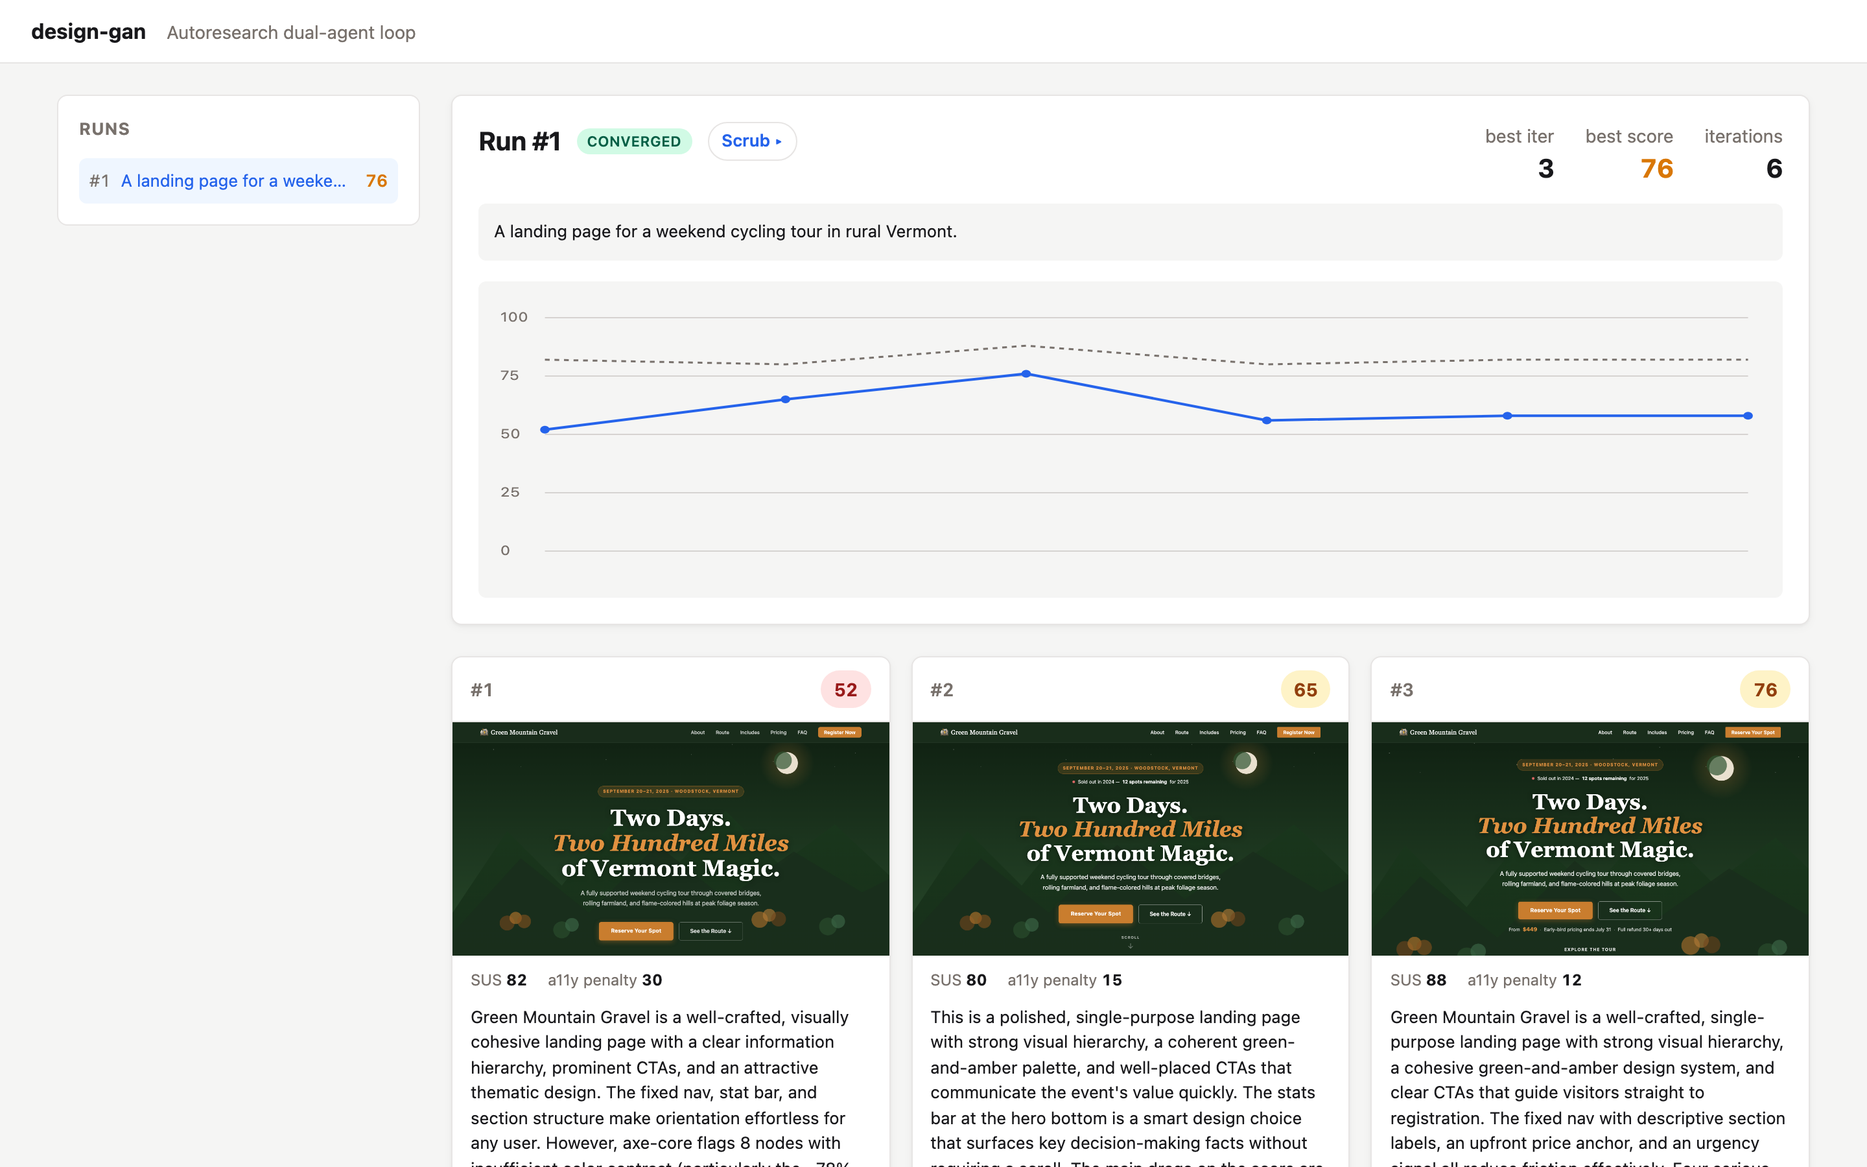
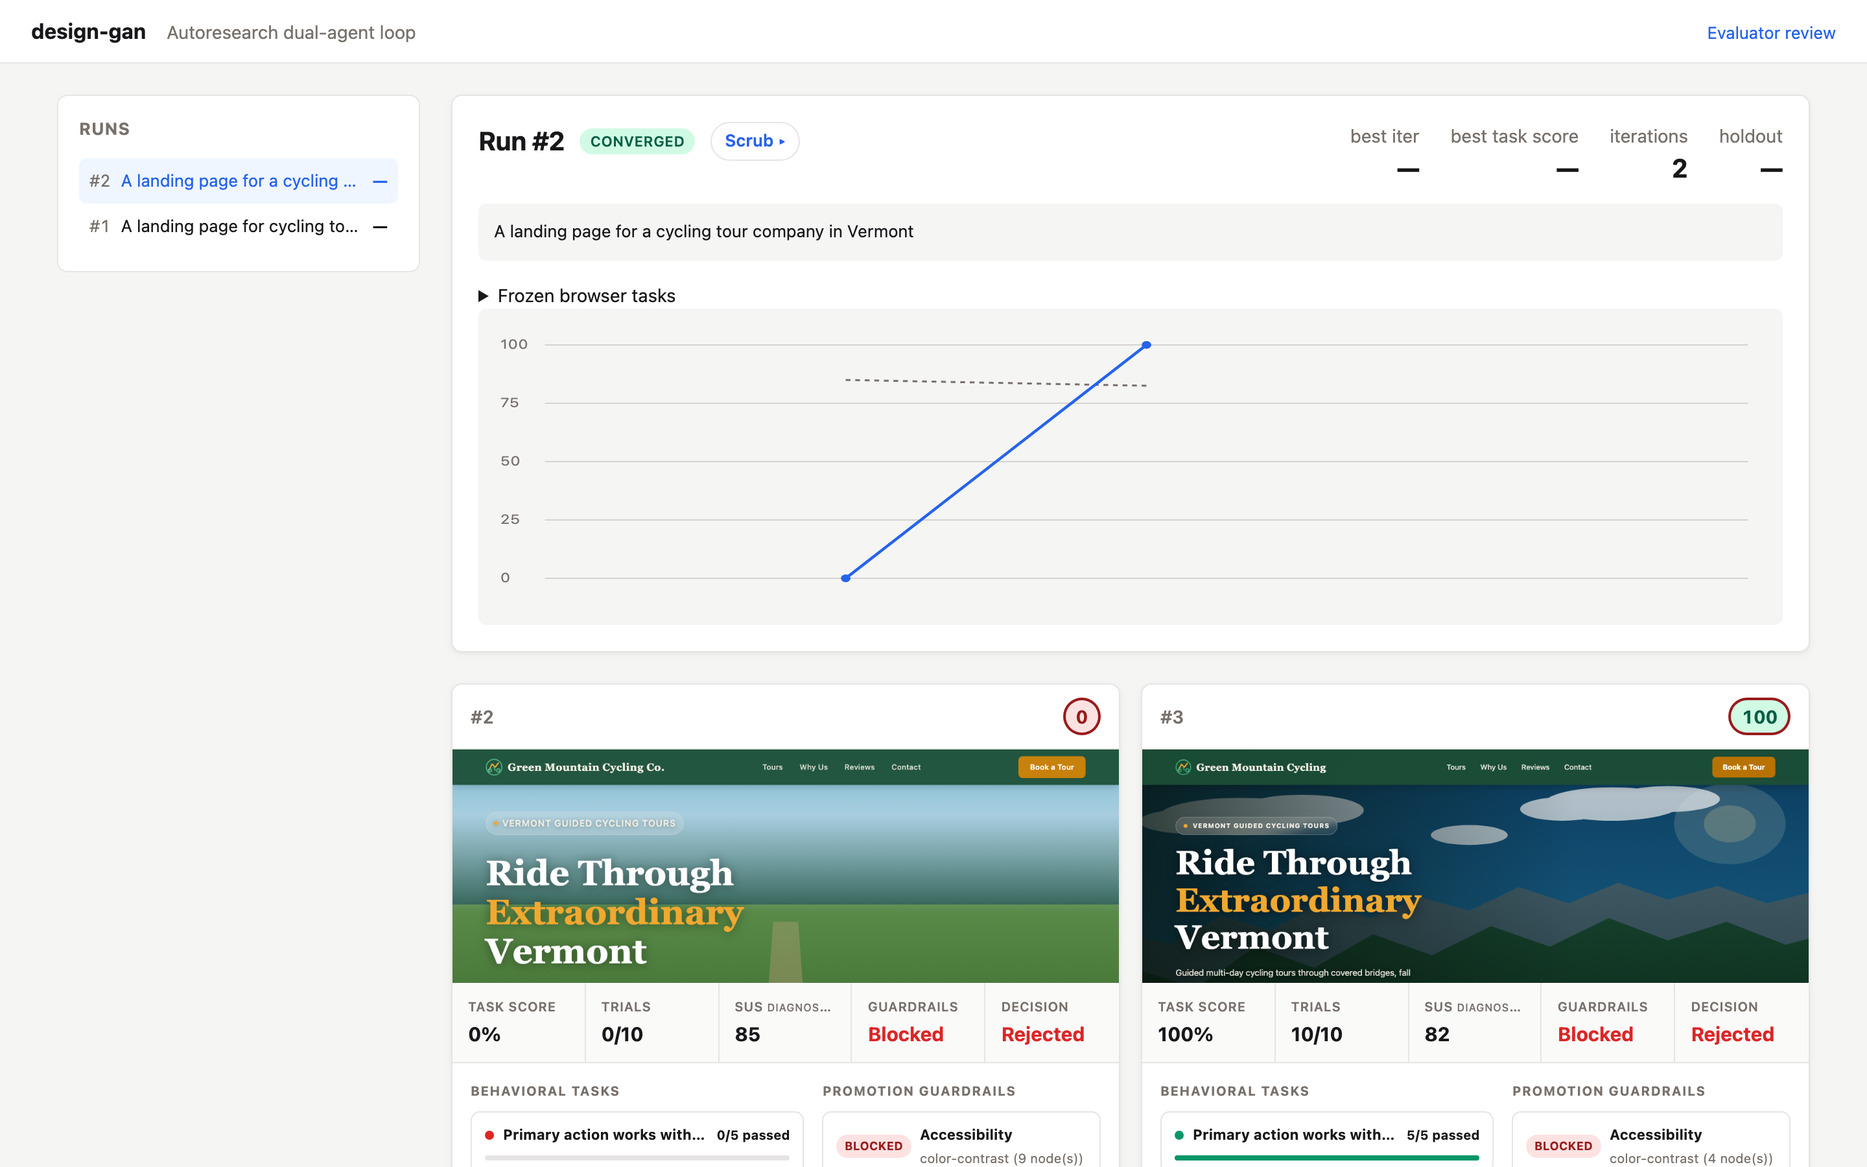
Refresh public showcase for behavioral evaluation

diff --git a/docs/index.html b/docs/index.html
@@ -4,7 +4,7 @@
   <meta charset="utf-8" />
   <meta name="viewport" content="width=device-width,initial-scale=1" />
   <title>design-gan — a dual-agent loop that evolves website and conversation designs</title>
-  <meta name="description" content="An autoresearch-style experiment with two sides: an evolution loop over single-page websites scored on the System Usability Scale, and the same loop over conversations scored on a parallel Conversation Usability Scale." />
+  <meta name="description" content="An autoresearch-style product-optimization loop for single-page websites: frozen browser tasks are the primary metric, SUS is diagnostic feedback, and accessibility and correctness are hard promotion guardrails." />
   <style>
     :root {
       --bg: #faf9f6;
@@ -406,10 +406,55 @@
     .sgs-asked ul { margin: 8px 0 0; padding-left: 18px; }
     .sgs-asked li { margin-bottom: 6px; }
 
+    /* ===== Current v2 evaluation snapshot ===== */
+    .v2-panel {
+      margin-top: 28px; padding: 24px; background: #fff;
+      border: 1px solid var(--border); border-radius: 12px;
+      box-shadow: 0 8px 28px rgba(15, 23, 42, 0.06);
+    }
+    .v2-panel h3 { margin-top: 0; }
+    .viewer-shot {
+      display: block; width: 100%; margin: 22px 0 10px;
+      border: 1px solid var(--border); border-radius: 10px;
+    }
+    .shot-caption { margin: 0; color: var(--muted); font-size: 13px; }
+    .v2-metrics {
+      display: grid; grid-template-columns: repeat(4, minmax(0, 1fr));
+      gap: 12px; margin: 24px 0;
+    }
+    .v2-metric {
+      padding: 16px; border: 1px solid var(--border); border-radius: 10px;
+      background: var(--bg);
+    }
+    .v2-metric span {
+      display: block; margin-bottom: 6px; color: var(--muted);
+      font-size: 11px; font-weight: 700; letter-spacing: .08em;
+      text-transform: uppercase;
+    }
+    .v2-metric strong { font-size: 24px; font-variant-numeric: tabular-nums; }
+    .v2-metric .pass { color: var(--good); }
+    .v2-metric .blocked { color: var(--bad); }
+    .result-strip {
+      display: grid; grid-template-columns: 1fr 1fr; gap: 14px;
+      margin-top: 18px;
+    }
+    .result {
+      padding: 18px; border: 1px solid var(--border); border-radius: 10px;
+      background: #fff;
+    }
+    .result h4 { margin: 0 0 10px; }
+    .result ul { margin: 0; padding-left: 20px; }
+    .result li { margin-bottom: 6px; }
+    .guardrail-note {
+      margin-top: 18px; padding: 14px 16px; border: 1px solid #fecaca;
+      border-radius: 10px; background: #fff7f7; color: #991b1b;
+    }
+
     @media (max-width: 720px) {
       .iter-body { grid-template-columns: 1fr; }
       .sus-row { grid-template-columns: repeat(5, 1fr); }
       .bubble { max-width: 95%; }
+      .v2-metrics, .result-strip { grid-template-columns: 1fr 1fr; }
     }
   </style>
 </head>
@@ -420,32 +465,33 @@
       <h1>Auto improving websites and conversations with agents.</h1>
       <p class="lede">
         <strong>design-gan</strong> is a dual-agent loop: a <em>generator</em>
-        writes a single-page website from a brief, a <em>critic</em> scores it
-        on the System Usability Scale, and the feedback rolls forward into the
-        next draft — until the composite score plateaus.
+        writes a single-page website from a brief, frozen browser tasks measure
+        whether it actually works, and the feedback rolls forward into the next
+        draft. SUS remains diagnostic; accessibility and correctness decide
+        whether a higher task score is safe to promote.
       </p>
       <div class="actions">
         <a class="btn primary" href="https://design-gan.fly.dev/">Try the live app &rarr;</a>
         <a class="btn" href="https://github.com/jessholbrook/design-gan">View on GitHub</a>
-        <a class="btn" href="#the-run">Skip to the run</a>
+        <a class="btn" href="#v2-run">Skip to the run</a>
       </div>
 
       <div class="stats">
         <div class="stat">
-          <div class="stat-label">Peak composite</div>
-          <div class="stat-value good">76</div>
+          <div class="stat-label">Candidate task score</div>
+          <div class="stat-value good">100</div>
         </div>
         <div class="stat">
-          <div class="stat-label">Starting composite</div>
-          <div class="stat-value">52</div>
+          <div class="stat-label">Prior task score</div>
+          <div class="stat-value">0</div>
         </div>
         <div class="stat">
-          <div class="stat-label">Delta to peak</div>
-          <div class="stat-value good">+24</div>
+          <div class="stat-label">Repeated trials</div>
+          <div class="stat-value good">10</div>
         </div>
         <div class="stat">
-          <div class="stat-label">Iterations to peak</div>
-          <div class="stat-value">3</div>
+          <div class="stat-label">Promotion</div>
+          <div class="stat-value">blocked</div>
         </div>
       </div>
     </section>
@@ -461,59 +507,117 @@
         numeric metric: single-page websites and short conversations.
       </p>
       <p>
-        Two main differences. First, we split the work into a
+        Two main differences remain. First, we split the work into a
         <strong>generator</strong> and a <strong>critic</strong> — hence the
         &ldquo;gan&rdquo; in the name — rather than running one agent that
-        both modifies and evaluates. Second, the score is a Claude critic's
-        verdict on a standard usability questionnaire, anchored by objective
-        penalties (<a href="https://github.com/dequelabs/axe-core">axe-core</a>
-        violations for websites; repetition and boilerplate in conversations),
-        because there's no bits-per-byte to minimize.
+        both modifies and evaluates. Second, the design loop now has a concrete
+        product objective: completion across a frozen suite of behavioral
+        browser tasks. The suite, trial count, promotion policy, and mutable
+        artifact boundary are fixed before a run starts.
       </p>
       <p>
         A generator agent writes a standalone HTML document (or a conversation
         assistant's system prompt) from the brief. A headless Chromium renders
         the page — or a user-simulator agent runs the dialogue — and the
-        rendered artifact goes to the critic. The critic fills out the 10-item
+        browser evaluator attempts the same pointer and keyboard scenarios in
+        isolated trials. The critic also fills out the 10-item
         <a href="https://measuringu.com/sus/">System Usability Scale</a> (or
         the parallel Conversation Usability Scale), writes feedback, and
         returns a short list of concrete next-step suggestions that feed the
-        next generator call. The loop stops after a configurable window of
-        iterations produce no meaningful composite-score gain, or at a hard
-        iteration cap.
+        next generator call. A candidate is promoted only when its paired task
+        evidence clears the configured effect and significance thresholds and
+        every artifact, accessibility, and correctness guardrail passes.
       </p>
     </section>
 
     <section id="how-it-works">
       <h2>How a single iteration works</h2>
-      <pre class="diagram">brief ──▶ generator ──▶ HTML ──▶ headless Chromium
-                                          │
-                                          ├─▶ screenshot
-                                          ├─▶ DOM
-                                          └─▶ axe-core violations
-                                                    │
-                                                    ▼
-                         critic ◀── System Usability Scale
-                           │
-                           ├─▶ SUS answers (10 × 1–5)
-                           ├─▶ prose feedback
-                           └─▶ prioritized suggestions ──▶ next generator call</pre>
+      <pre class="diagram">brief ──▶ generator ──▶ bounded HTML artifact
+                                  │
+                                  ├─▶ frozen browser tasks × repeated trials
+                                  │             └─▶ task completion (primary)
+                                  ├─▶ axe-core + runtime checks (guardrails)
+                                  └─▶ screenshot ──▶ critic ──▶ SUS + feedback
+                                                                (diagnostic)
+                                                   │
+                                                   ▼
+                        paired significance + minimum effect + hard guardrails
+                                                   │
+                              promoted parent ◀────┴────▶ rejected history</pre>
       <p>
-        The composite score is the standard SUS score (0–100) minus a weighted
-        axe-core penalty. The accessibility penalty is
-        capped — but it keeps the critic honest relative to visual appeal - e.g. a solid design can't hide a
-        colour-contrast failure or missing alt text.
+        There is one north-star metric for design runs: behavioral task
+        completion from 0–100. SUS explains perceived usability but cannot win
+        a promotion. A candidate with serious accessibility violations,
+        runtime errors, evaluator action failures, or a broken artifact
+        boundary is rejected even when its task score improves.
       </p>
     </section>
 
+    <section id="v2-run">
+      <h2>A current v2 run</h2>
+      <p class="lead">
+        Brief: &ldquo;A landing page for a cycling tour company in Vermont.&rdquo;
+      </p>
+      <p>
+        This short local verification run is deliberately more useful than a
+        clean success story. The first recorded candidate did not respond to
+        either pointer or keyboard activation. The next candidate made the
+        primary action work in every repeated trial, but was still rejected:
+        four serious colour-contrast failures tripped the accessibility
+        guardrail. That is the v2 contract in action — a better north-star score
+        is necessary, not sufficient.
+      </p>
+
+      <div class="v2-panel">
+        <h3>Behavioral evidence and promotion decision</h3>
+        <div class="v2-metrics">
+          <div class="v2-metric"><span>Task score</span><strong class="pass">100%</strong></div>
+          <div class="v2-metric"><span>Trials passed</span><strong class="pass">10 / 10</strong></div>
+          <div class="v2-metric"><span>SUS diagnostic</span><strong>82.5</strong></div>
+          <div class="v2-metric"><span>Decision</span><strong class="blocked">Rejected</strong></div>
+        </div>
+        <div class="result-strip">
+          <div class="result">
+            <h4>Previous candidate</h4>
+            <ul>
+              <li>0 / 5 pointer trials passed</li>
+              <li>0 / 5 keyboard trials passed</li>
+              <li>SUS diagnostic: 85</li>
+            </ul>
+          </div>
+          <div class="result">
+            <h4>Next candidate</h4>
+            <ul>
+              <li>5 / 5 pointer trials passed</li>
+              <li>5 / 5 keyboard trials passed</li>
+              <li>Artifact and correctness checks passed</li>
+            </ul>
+          </div>
+        </div>
+        <p class="guardrail-note">
+          <strong>Promotion blocked:</strong> axe-core found four serious
+          colour-contrast violations. No holdout was consumed because no
+          candidate cleared the development promotion gate.
+        </p>
+        <img class="viewer-shot" src="images/run-page.png"
+             alt="Design-GAN v2 run page showing task score, repeated trials, SUS diagnostic feedback, guardrails, and rejected promotion decisions." />
+        <p class="shot-caption">
+          The refreshed run viewer keeps every candidate in history and exposes
+          task evidence, diagnostics, guardrails, and the final decision side by side.
+        </p>
+      </div>
+    </section>
+
     <section id="the-run">
-      <h2>A run, iteration by iteration</h2>
+      <h2>The original v1 run, iteration by iteration</h2>
       <p class="lead">
         Brief: &ldquo;A landing page for a weekend cycling tour in rural Vermont.&rdquo;
       </p>
       <p>
-        Four iterations of the real loop against one brief — pages you could
-        imagine coming upon in the real world. The composite score climbed
+        Preserved here as the original project trace, these four iterations use
+        the earlier SUS-minus-accessibility composite rather than the current
+        promotion contract. They are still useful for inspecting how designs
+        and critic suggestions evolved. The composite score climbed
         from a competent-but-flawed baseline (52) to a polished peak at
         iteration 3 (76), then slipped back as the critic tightened its
         stance on colour-contrast failures — a textbook local-optimum
@@ -1027,16 +1131,17 @@ Go. Start the timer as soon as this window closes.</div></div><div class="bubble
 ]</code></pre>
       </details>
     </section>
-    </section>
 
     <section id="design-notes">
       <h2>Design notes</h2>
       <ul>
-        <li><strong>The critic sees the rendered page, not the code.</strong> Code-only critique is cheap but correlates poorly with real usability.</li>
-        <li><strong>Subjective + objective.</strong> SUS alone is gameable; axe-core anchors the score to measurable a11y signals.</li>
-        <li><strong>Convergence, operationalised.</strong> &ldquo;No further improvements&rdquo; = <code>patience</code> iterations in a row without a composite gain of at least <code>tolerance</code> points.</li>
+        <li><strong>The evaluator uses the rendered page.</strong> Playwright performs real pointer and keyboard actions against isolated browser trials; code-only critique is not the north-star.</li>
+        <li><strong>One primary metric.</strong> Design candidates compete on frozen behavioral task completion. SUS remains visible as diagnostic feedback and never contributes to the promotion score.</li>
+        <li><strong>Hard guardrails.</strong> Serious accessibility violations, correctness failures, evaluator errors, or a broken standalone-artifact boundary block promotion instead of being blended into a composite.</li>
+        <li><strong>Paired promotion.</strong> Candidate and parent outcomes are compared on matching tasks and trials using a minimum effect and a one-sided exact sign test.</li>
+        <li><strong>Frozen development and holdout suites.</strong> Development evidence drives iteration; untouched holdout tasks are consumed only by a final promoted artifact.</li>
+        <li><strong>History is append-only.</strong> Rejected candidates, parent lineage, task evidence, and promotion reasons remain available in SQLite and the viewer/scrubber.</li>
         <li><strong>Structured output.</strong> The critic uses Pydantic-validated JSON so a malformed response triggers a retry with a stricter nudge.</li>
-        <li><strong>Prompt caching.</strong> System prompts are cached as <code>ephemeral</code>, so iteration <em>N+1</em> pays near-zero for the static instructions.</li>
       </ul>
     </section>
 
@@ -1065,7 +1170,7 @@ design-gan converse "I keep procrastinating on writing my thesis. How do I actua
       </p>
 
       <details class="dataset">
-        <summary>Raw dataset for this run (JSON)</summary>
+        <summary>Raw dataset for the historical v1 design run (JSON)</summary>
         <pre><code>[
   {
     "iter": 1,
@@ -1186,10 +1291,10 @@ design-gan converse "I keep procrastinating on writing my thesis. How do I actua
     <footer>
       <p>
         An autoresearch-style experiment. Generator, critic, and user
-        simulator are all Claude Sonnet. Both runs on this page are real
-        executions of the loop against the stated briefs; every screenshot,
-        transcript, SUS/CUS answer, feedback line, and suggestion is verbatim
-        from the model.
+        simulator are Claude models. The current v2 viewer snapshot and the
+        preserved v1 design and conversation traces are real executions against
+        the stated briefs. The historical screenshots, transcripts, SUS/CUS
+        answers, feedback lines, and suggestions remain verbatim from those runs.
         <a href="https://github.com/jessholbrook/design-gan">Source on GitHub</a>.
       </p>
     </footer>

diff --git a/scripts/capture_readme_shots.py b/scripts/capture_readme_shots.py
@@ -1,14 +1,14 @@
-"""One-off: capture README screenshots of the scrubber UI.
+"""Capture documentation screenshots from a running viewer."""
 
-Assumes the viewer is running at http://127.0.0.1:8001 against runs_real
-(see .claude/launch.json — `viewer-real`).
-"""
+import os
 from pathlib import Path
+
 from playwright.sync_api import sync_playwright
 
 OUT = Path(__file__).resolve().parents[1] / "docs" / "images"
 OUT.mkdir(parents=True, exist_ok=True)
-BASE = "http://127.0.0.1:8001"
+BASE = os.environ.get("DESIGN_GAN_SCREENSHOT_BASE", "http://127.0.0.1:8000")
+RUN_ID = os.environ.get("DESIGN_GAN_SCREENSHOT_RUN_ID", "2")
 
 
 def main() -> None:
@@ -17,12 +17,8 @@ def main() -> None:
         ctx = browser.new_context(viewport={"width": 1440, "height": 900}, device_scale_factor=2)
         page = ctx.new_page()
 
-        # 1. Dashboard
-        page.goto(f"{BASE}/", wait_until="networkidle")
-        page.screenshot(path=str(OUT / "dashboard.png"), full_page=False)
-
-        # 2. Scrubber, single mode, mid-run iteration
-        page.goto(f"{BASE}/runs/1/scrub", wait_until="networkidle")
+        # 1. Scrubber, single mode, latest iteration
+        page.goto(f"{BASE}/runs/{RUN_ID}/scrub", wait_until="networkidle")
         page.wait_for_selector("#scrub-range")
 
         def seek(idx0: int) -> None:
@@ -35,19 +31,18 @@ def main() -> None:
             )
             page.wait_for_timeout(400)
 
-        # Seek to iteration 3 (zero-indexed value 2) — a representative mid-run state
-        seek(2)
+        # Capture the latest available iteration.
+        max_idx = int(page.locator("#scrub-range").get_attribute("max") or "0")
+        seek(max_idx)
         page.screenshot(path=str(OUT / "scrubber-single.png"), full_page=False)
 
-        # 3. Compare mode vs best — overlay the draggable divider
-        page.click("button:has-text('vs best')")
+        # 2. Compare latest candidate against its parent.
+        page.click("button:has-text('vs prev')")
         page.wait_for_timeout(300)
-        # Seek to iteration 1 (zero-indexed value 0) so the diff against the best is dramatic
-        seek(0)
         page.screenshot(path=str(OUT / "scrubber-compare.png"), full_page=False)
 
-        # 4. Run page (the per-iteration cards landing view)
-        page.goto(f"{BASE}/runs/1", wait_until="networkidle")
+        # 3. Run page (the per-iteration cards landing view)
+        page.goto(f"{BASE}/runs/{RUN_ID}", wait_until="networkidle")
         page.screenshot(path=str(OUT / "run-page.png"), full_page=False)
 
         browser.close()

diff --git a/README.md b/README.md
@@ -7,7 +7,7 @@ product-quality score. A **critic** still reports the System Usability Scale
 (SUS) as diagnostic feedback, while axe-core accessibility and browser/runtime
 correctness act as hard promotion guardrails.
 
-![Scrubbing through a run — iteration #3 on the left, critic verdict on the right.](docs/images/scrubber-single.png)
+![Scrubbing through a v2 run — generated artifact on the left, behavioral evidence, guardrails, and diagnostic feedback on the right.](docs/images/scrubber-single.png)
 
 ## Architecture
 
@@ -131,7 +131,7 @@ run. Duplicate run/task provenance and duplicate artifact/task evidence do not
 qualify. Passing this initial coverage gate permits a comparison; it does not
 claim that the reviewed corpus represents production traffic.
 
-![Run page — score over iterations and per-iteration cards.](docs/images/run-page.png)
+![V2 run page — task completion over iterations and structured evaluation cards.](docs/images/run-page.png)
 
 Each run page has a **Scrub ▸** link to a dedicated scrubber: a timeline
 slider with the screenshot on the left and the critic's verdict on the
@@ -141,7 +141,7 @@ exactly what changed, and each iteration surfaces the prior critic's
 suggestions that produced it. Conversation runs scrub through transcripts
 instead of screenshots.
 
-![Scrubber compare mode — iteration #1 vs the peak iteration behind a draggable divider.](docs/images/scrubber-compare.png)
+![Scrubber compare mode — the latest candidate versus its parent behind a draggable divider.](docs/images/scrubber-compare.png)
 
 ## Deploy to Fly.io
 
